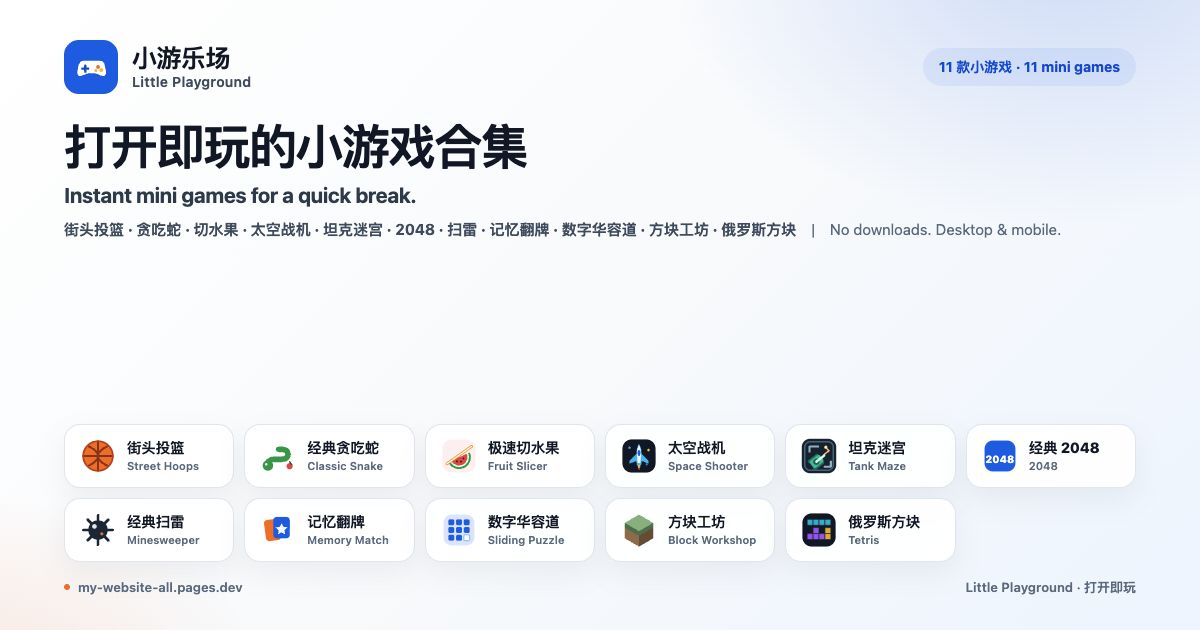
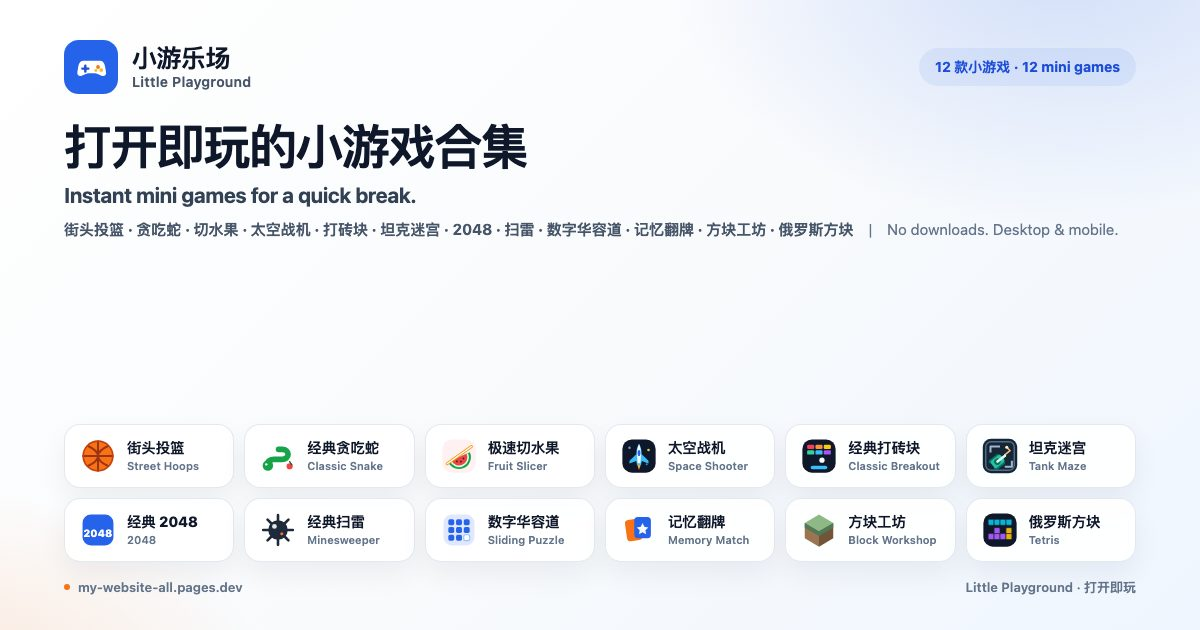
1.补齐分享图经典打砖块并重新生成12款游戏封面;同步sitemap全站修改日期;在站点校验中新增分享图模板一致性与全量lastmod校验并清理重复检查

diff --git a/scripts/og-image.html b/scripts/og-image.html
@@ -65,13 +65,13 @@
         <svg class="brand-mark" viewBox="0 0 40 40" aria-hidden="true"><use href="../assets/icons.svg#brand"></use></svg>
         <div class="brand-text"><span class="brand-zh">小游乐场</span><span class="brand-en">Little Playground</span></div>
       </div>
-      <span class="badge">11 款小游戏 · 11 mini games</span>
+      <span class="badge">12 款小游戏 · 12 mini games</span>
     </div>
 
     <div class="hero">
       <h1>打开即玩的小游戏合集</h1>
       <p class="en">Instant mini games for a quick break.</p>
-      <p class="sub"><b>街头投篮 · 贪吃蛇 · 切水果 · 太空战机 · 坦克迷宫 · 2048 · 扫雷 · 记忆翻牌 · 数字华容道 · 方块工坊 · 俄罗斯方块</b>　|　No downloads. Desktop &amp; mobile.</p>
+      <p class="sub"><b>街头投篮 · 贪吃蛇 · 切水果 · 太空战机 · 打砖块 · 坦克迷宫 · 2048 · 扫雷 · 数字华容道 · 记忆翻牌 · 方块工坊 · 俄罗斯方块</b>　|　No downloads. Desktop &amp; mobile.</p>
     </div>
 
     <div class="cards">
@@ -79,11 +79,12 @@
       <div class="card"><svg class="card-icon" viewBox="0 0 32 32" aria-hidden="true"><use href="../assets/icons.svg#game-snake"></use></svg><div class="card-text"><span class="card-name">经典贪吃蛇</span><span class="card-en">Classic Snake</span></div></div>
       <div class="card"><svg class="card-icon" viewBox="0 0 32 32" aria-hidden="true"><use href="../assets/icons.svg#game-fruit"></use></svg><div class="card-text"><span class="card-name">极速切水果</span><span class="card-en">Fruit Slicer</span></div></div>
       <div class="card"><svg class="card-icon" viewBox="0 0 32 32" aria-hidden="true"><use href="../assets/icons.svg#game-space"></use></svg><div class="card-text"><span class="card-name">太空战机</span><span class="card-en">Space Shooter</span></div></div>
+      <div class="card"><svg class="card-icon" viewBox="0 0 32 32" aria-hidden="true"><use href="../assets/icons.svg#game-breakout"></use></svg><div class="card-text"><span class="card-name">经典打砖块</span><span class="card-en">Classic Breakout</span></div></div>
       <div class="card"><svg class="card-icon" viewBox="0 0 32 32" aria-hidden="true"><use href="../assets/icons.svg#game-tank-maze"></use></svg><div class="card-text"><span class="card-name">坦克迷宫</span><span class="card-en">Tank Maze</span></div></div>
       <div class="card"><svg class="card-icon" viewBox="0 0 32 32" aria-hidden="true"><use href="../assets/icons.svg#game-2048"></use></svg><div class="card-text"><span class="card-name">经典 2048</span><span class="card-en">2048</span></div></div>
       <div class="card"><svg class="card-icon" viewBox="0 0 32 32" aria-hidden="true"><use href="../assets/icons.svg#game-minesweeper"></use></svg><div class="card-text"><span class="card-name">经典扫雷</span><span class="card-en">Minesweeper</span></div></div>
-      <div class="card"><svg class="card-icon" viewBox="0 0 32 32" aria-hidden="true"><use href="../assets/icons.svg#game-memory"></use></svg><div class="card-text"><span class="card-name">记忆翻牌</span><span class="card-en">Memory Match</span></div></div>
       <div class="card"><svg class="card-icon" viewBox="0 0 32 32" aria-hidden="true"><use href="../assets/icons.svg#game-slide"></use></svg><div class="card-text"><span class="card-name">数字华容道</span><span class="card-en">Sliding Puzzle</span></div></div>
+      <div class="card"><svg class="card-icon" viewBox="0 0 32 32" aria-hidden="true"><use href="../assets/icons.svg#game-memory"></use></svg><div class="card-text"><span class="card-name">记忆翻牌</span><span class="card-en">Memory Match</span></div></div>
       <div class="card"><svg class="card-icon" viewBox="0 0 32 32" aria-hidden="true"><use href="../assets/icons.svg#game-block-workshop"></use></svg><div class="card-text"><span class="card-name">方块工坊</span><span class="card-en">Block Workshop</span></div></div>
       <div class="card"><svg class="card-icon" viewBox="0 0 32 32" aria-hidden="true"><use href="../assets/icons.svg#game-tetris"></use></svg><div class="card-text"><span class="card-name">俄罗斯方块</span><span class="card-en">Tetris</span></div></div>
     </div>
